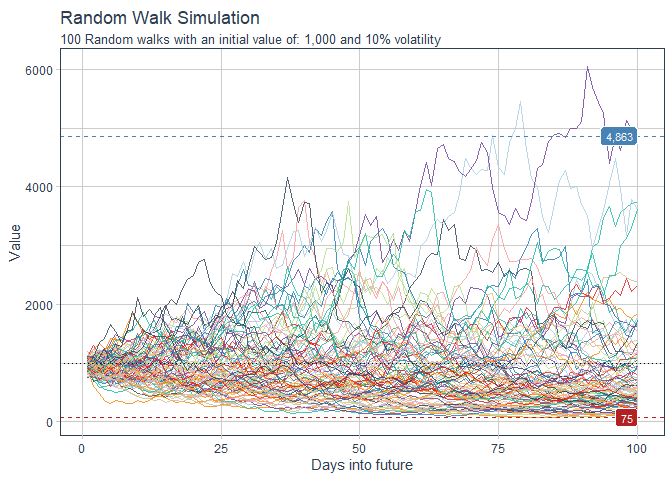
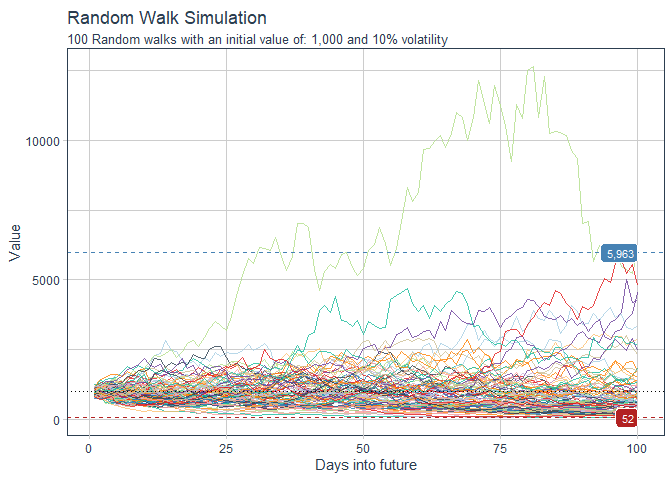
getting ready for CRAN submission

diff --git a/README.md b/README.md
@@ -10,7 +10,8 @@ experimental](https://img.shields.io/badge/lifecycle-experimental-orange.svg)](h
 <!-- badges: end -->
 
 The goal of `healthyR.ts` is to provide a consistent verb framework for
-performing time-series analysis and forecasting.
+performing time series analysis and forecasting on both administrative
+and clinical hospital data.
 
 ## Installation
 
@@ -41,14 +42,14 @@ df <- ts_random_walk()
 
 head(df)
 #> # A tibble: 6 x 4
-#>     run     x       y cum_y
-#>   <dbl> <dbl>   <dbl> <dbl>
-#> 1     1     1 -0.0747  925.
-#> 2     1     2 -0.107   826.
-#> 3     1     3  0.0267  848.
-#> 4     1     4 -0.0332  820.
-#> 5     1     5  0.0106  829.
-#> 6     1     6  0.0199  845.
+#>     run     x        y cum_y
+#>   <dbl> <dbl>    <dbl> <dbl>
+#> 1     1     1  0.00840 1008.
+#> 2     1     2 -0.110    897.
+#> 3     1     3  0.0462   939.
+#> 4     1     4 -0.0220   918.
+#> 5     1     5 -0.248    690.
+#> 6     1     6  0.106    764.
 ```
 
 Now that the data has been generated, lets take a look at it.
